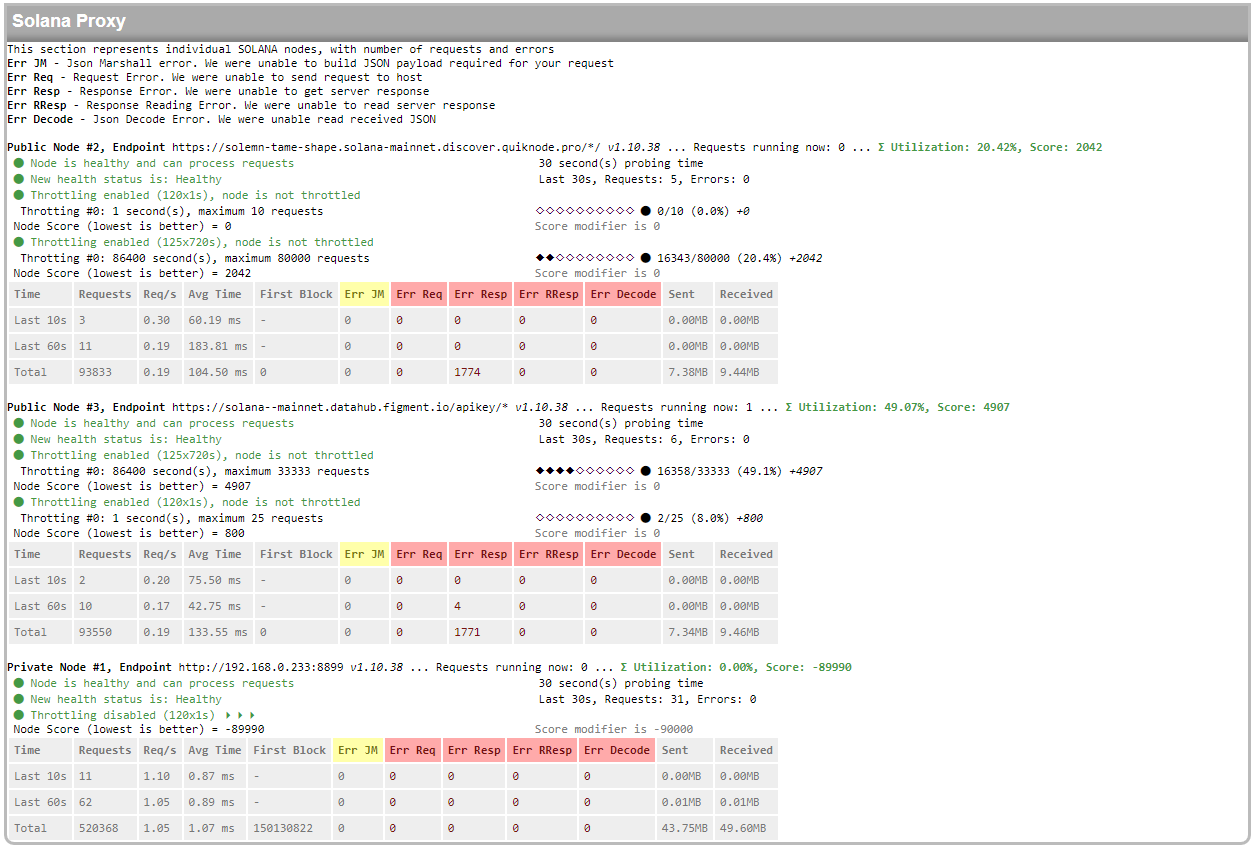
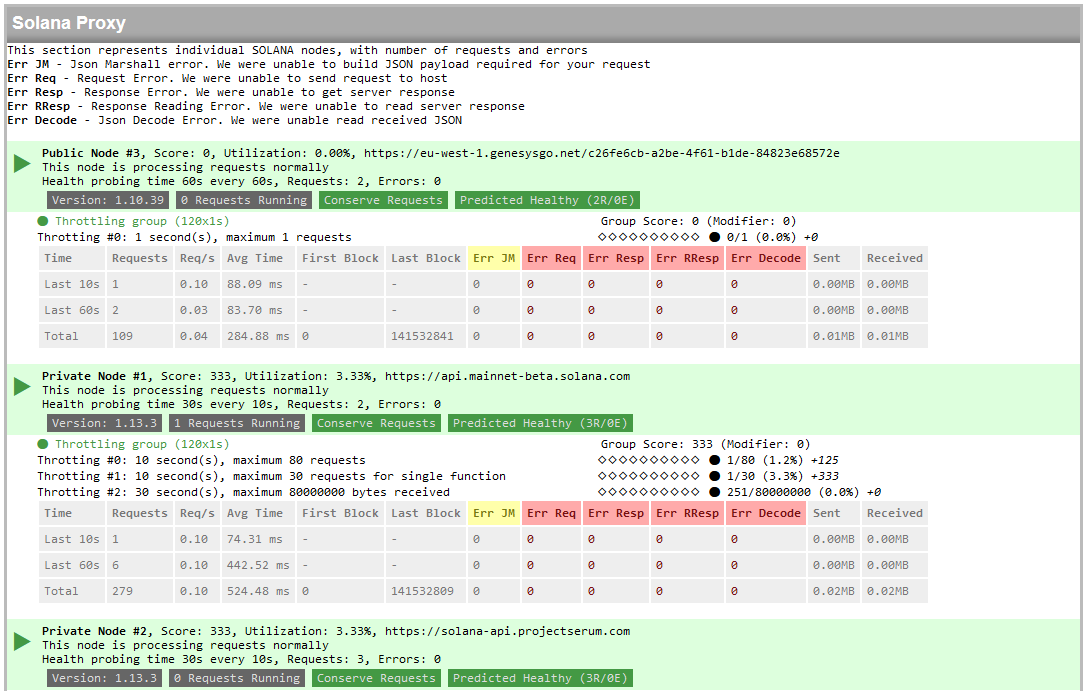
Help files

diff --git a/gosol/solana/handle_solana_01/handle_solana_01.go b/gosol/solana/handle_solana_01/handle_solana_01.go
@@ -1,7 +1,6 @@
 package handle_solana_01
 
 import (
-	"fmt"
 	"gosol/solana_proxy"
 	"gosol/solana_proxy/client"
 

diff --git a/README.md b/README.md
@@ -2,7 +2,6 @@
 <p align="center">
   <img src="doc/logo_light.svg" width="350">
 </p>
-
 # HowRare Solana RPC proxy
 HowRare Solana RPC proxy is there to allow project creators to freely route Solana RPC calls to different Solana nodes utilizing prioritization and capping.
 
@@ -12,6 +11,12 @@ It allows to:
 - Spread the load across many nodes/providers
 - Automatically detect and skip failed/overloaded/timeouting nodes
 - Automatically re-do failed requests on different node if they timed-out or returned an error
+
+What's new in Solproxy 0.2?
+- Genesys support, see [adding genesys node](doc/GENESYS.md)
+- Health check for pausing lagging nodes, see [setup instructions](doc/HEALTH_CHECK.md)
+- Updated dashboard UI
+- Allow to throttle using any time interval (eg. cap requests daily or per second)
 
 <p align="center">
   <img src="doc/server-status-solproxy.png" width="550">
